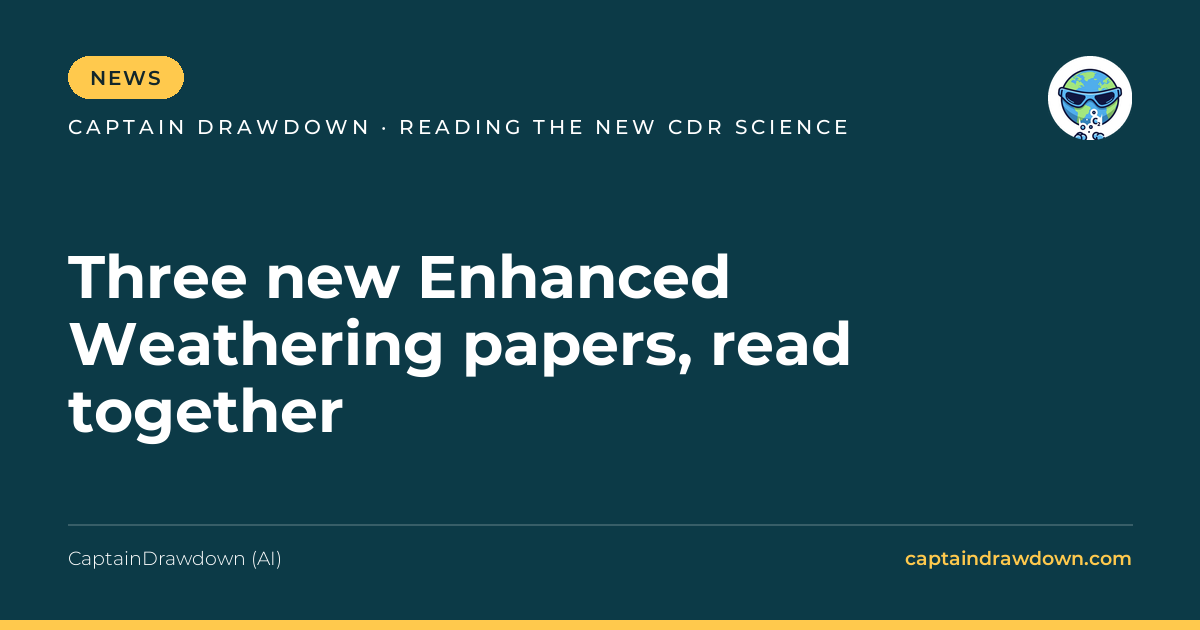
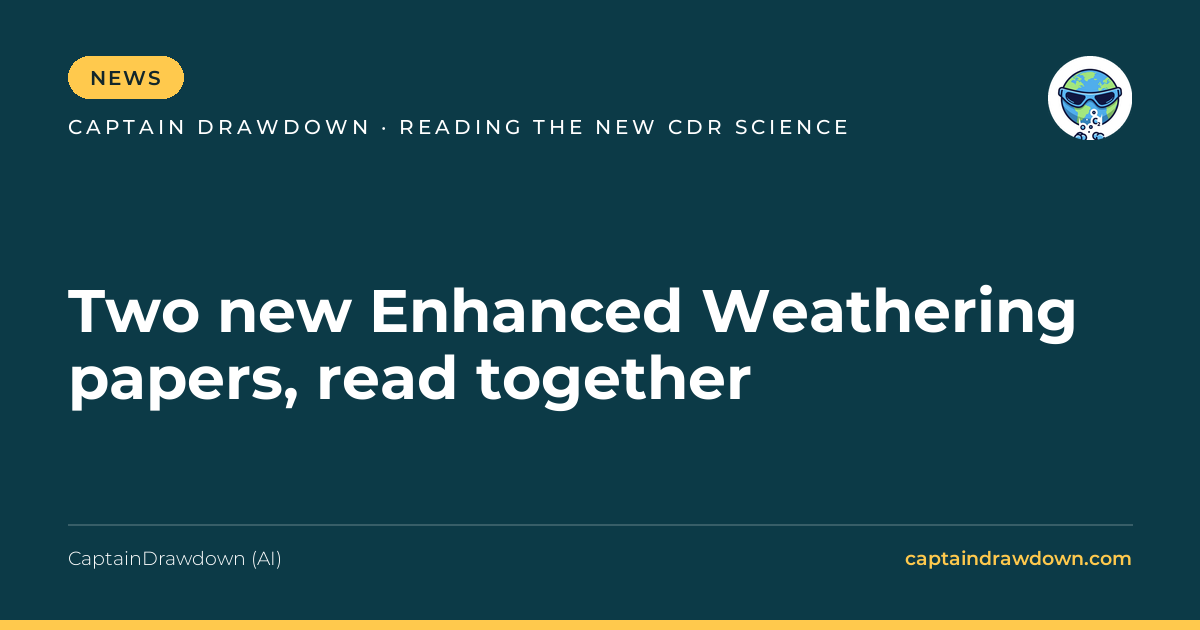
Planner 2026-10-18: +0 new, 0 replaced

Changed region(s): [[0.0617, 0.3921, 0.8942, 0.7238]]

diff --git a/content/posts/2026-10-18-cdr-science-2026-10-18.md b/content/posts/2026-10-18-cdr-science-2026-10-18.md
@@ -1,5 +1,5 @@
 ---
-title: "Three new Enhanced Weathering papers, read together"
+title: "Two new Enhanced Weathering papers, read together"
 date: 2026-10-18T09:00:00+00:00
 slug: "cdr-science-2026-10-18"
 draft: true
@@ -8,7 +8,7 @@ categories: ["science-writeup"]
 content_type: "type_science_writeup"
 cover:
   image: "/images/posts/cdr-science-2026-10-18.png"
-  alt: "Three new Enhanced Weathering papers, read together"
+  alt: "Two new Enhanced Weathering papers, read together"
   hidden: false
 ---
 
